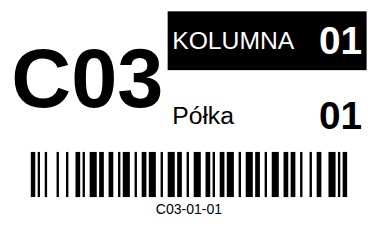
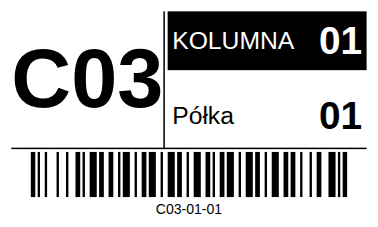
Dodaj linie podziału sekcji na etykiecie
Jak na oryginalnych etykietach: pionowa linia między kodem regału a
sekcją kolumna/półka oraz pozioma linia nad sekcją kodu kreskowego.
Linie renderowane w podglądzie SVG i w ZPL (^GB), z opcją wyłączenia
w ustawieniach ("Linie podziału").

Claude-Session: https://claude.ai/code/session_016bJKhzy8ZJVzjkuHEiazXJ

Changed region(s): [[0.0291, 0.0617, 0.9894, 0.6784]]

diff --git a/src/lib/layout.ts b/src/lib/layout.ts
@@ -20,6 +20,7 @@ export interface Box {
  *  prawdy dla podglądu SVG, druku z przeglądarki i generatora ZPL. */
 export interface LabelLayout {
   inset: number; // wewnętrzny margines tekstu w wierszach KOLUMNA/Półka
+  dividers: Box[]; // czarne linie oddzielające sekcje
   rack: Box & { fontMm: number };
   columnBar: Box & { labelFontMm: number; valueFontMm: number };
   shelfRow: Box & { labelFontMm: number; valueFontMm: number };
@@ -63,8 +64,25 @@ export function computeLayout(cfg: LabelConfig, data: LabelData): LabelLayout {
   const bcW = Math.min(innerW, modules * moduleDots * dotMm);
   const bcY = topY + topH + gapB;
 
+  // Linie podziału jak na oryginalnych etykietach: pionowa między kodem
+  // regału a kolumną/półką, pozioma nad sekcją kodu kreskowego.
+  const dividers: Box[] = [];
+  if (cfg.showDividers) {
+    const t = clamp(W * 0.004, 0.3, 0.6);
+    const hLineY = gapB > 0 ? topY + topH + gapB / 2 - t / 2 : null;
+    if (hasRight) {
+      const vX = pad + leftW + gapMid / 2 - t / 2;
+      const vBottom = hLineY !== null ? hLineY + t : H - pad;
+      dividers.push({ x: vX, y: topY, w: t, h: vBottom - topY });
+    }
+    if (hLineY !== null) {
+      dividers.push({ x: pad, y: hLineY, w: innerW, h: t });
+    }
+  }
+
   return {
     inset,
+    dividers,
     rack: { x: pad, y: topY, w: leftW, h: topH, fontMm: rackFont },
     columnBar: { x: rightX, y: topY, w: rightW, h: rowH, labelFontMm, valueFontMm },
     shelfRow: { x: rightX, y: topY + rowH + rowGap, w: rightW, h: rowH, labelFontMm, valueFontMm },

diff --git a/tests/layout.test.ts b/tests/layout.test.ts
@@ -61,6 +61,21 @@ describe('computeLayout', () => {
     expect(L2.rack.w).toBeGreaterThan(L1.rack.w);
   });
 
+  it('generuje linie podziału: pionową i poziomą', () => {
+    const L = computeLayout(DEFAULT_CONFIG, DATA);
+    expect(L.dividers).toHaveLength(2);
+    const [v, h] = L.dividers;
+    expect(v.h).toBeGreaterThan(v.w); // pionowa
+    expect(h.w).toBeGreaterThan(h.h); // pozioma
+    // pionowa dochodzi dokładnie do poziomej
+    expect(v.y + v.h).toBeCloseTo(h.y + h.h, 5);
+  });
+
+  it('pomija linie podziału gdy wyłączone', () => {
+    const L = computeLayout({ ...DEFAULT_CONFIG, showDividers: false }, DATA);
+    expect(L.dividers).toHaveLength(0);
+  });
+
   it('dobiera moduł kodu ≥ 2 doty dla małej etykiety przy 203 dpi', () => {
     const L = computeLayout({ ...DEFAULT_CONFIG, widthMm: 57, heightMm: 32 }, DATA);
     expect(L.barcode.moduleDots).toBeGreaterThanOrEqual(2);

diff --git a/src/types.ts b/src/types.ts
@@ -16,6 +16,7 @@ export interface LabelConfig {
   showShelf: boolean;
   showBarcode: boolean;
   showBarcodeText: boolean;
+  showDividers: boolean;
   columnLabel: string;
   shelfLabel: string;
   codeTemplate: string; // np. "{regal}-{kolumna}-{polka}"
@@ -63,6 +64,7 @@ export const DEFAULT_CONFIG: LabelConfig = {
   showShelf: true,
   showBarcode: true,
   showBarcodeText: true,
+  showDividers: true,
   columnLabel: 'KOLUMNA',
   shelfLabel: 'Półka',
   codeTemplate: '{regal}-{kolumna}-{polka}',

diff --git a/tests/zpl.test.ts b/tests/zpl.test.ts
@@ -32,9 +32,15 @@ describe('zplForLabel', () => {
       showColumnBar: false,
       showBarcode: false,
       showBarcodeText: false,
+      showDividers: false,
     });
     expect(z).not.toContain('^GB');
     expect(z).not.toContain('^BC');
+  });
+
+  it('rysuje linie podziału jako ^GB', () => {
+    // pionowa + pozioma linia oraz wypełniony pasek kolumny = 3 × ^GB
+    expect(zpl.match(/\^GB/g)).toHaveLength(3);
   });
 
   it('usuwa znaki sterujące ZPL z danych', () => {

diff --git a/src/lib/zpl.ts b/src/lib/zpl.ts
@@ -29,6 +29,12 @@ export function zplForLabel(data: LabelData, cfg: LabelConfig): string {
     '^LH0,0',
   ];
 
+  for (const dv of L.dividers) {
+    const w = Math.max(1, d(dv.w));
+    const h = Math.max(1, d(dv.h));
+    z.push(`^FO${d(dv.x)},${d(dv.y)}^GB${w},${h},${Math.min(w, h)}^FS`);
+  }
+
   const rf = d(L.rack.fontMm);
   z.push(
     `^FO${d(L.rack.x)},${d(L.rack.y + (L.rack.h - L.rack.fontMm) / 2)}^A0N,${rf},${rf}^FD${fd(data.rack, a)}^FS`,

diff --git a/src/components/SettingsPanel.tsx b/src/components/SettingsPanel.tsx
@@ -129,6 +129,14 @@ export function SettingsPanel({
           />
           Tekst pod kodem
         </label>
+        <label>
+          <input
+            type="checkbox"
+            checked={config.showDividers}
+            onChange={(e) => onChange({ showDividers: e.target.checked })}
+          />
+          Linie podziału
+        </label>
       </div>
 
       <h3>Teksty</h3>

diff --git a/src/components/LabelPreview.tsx b/src/components/LabelPreview.tsx
@@ -35,6 +35,10 @@ export function LabelPreview({ data, config }: { data: LabelData; config: LabelC
     >
       <rect x={0} y={0} width={W} height={H} fill="#fff" />
 
+      {L.dividers.map((dv, i) => (
+        <rect key={i} x={dv.x} y={dv.y} width={dv.w} height={dv.h} fill="#000" />
+      ))}
+
       <text
         x={L.rack.x}
         y={L.rack.y + L.rack.h / 2}
